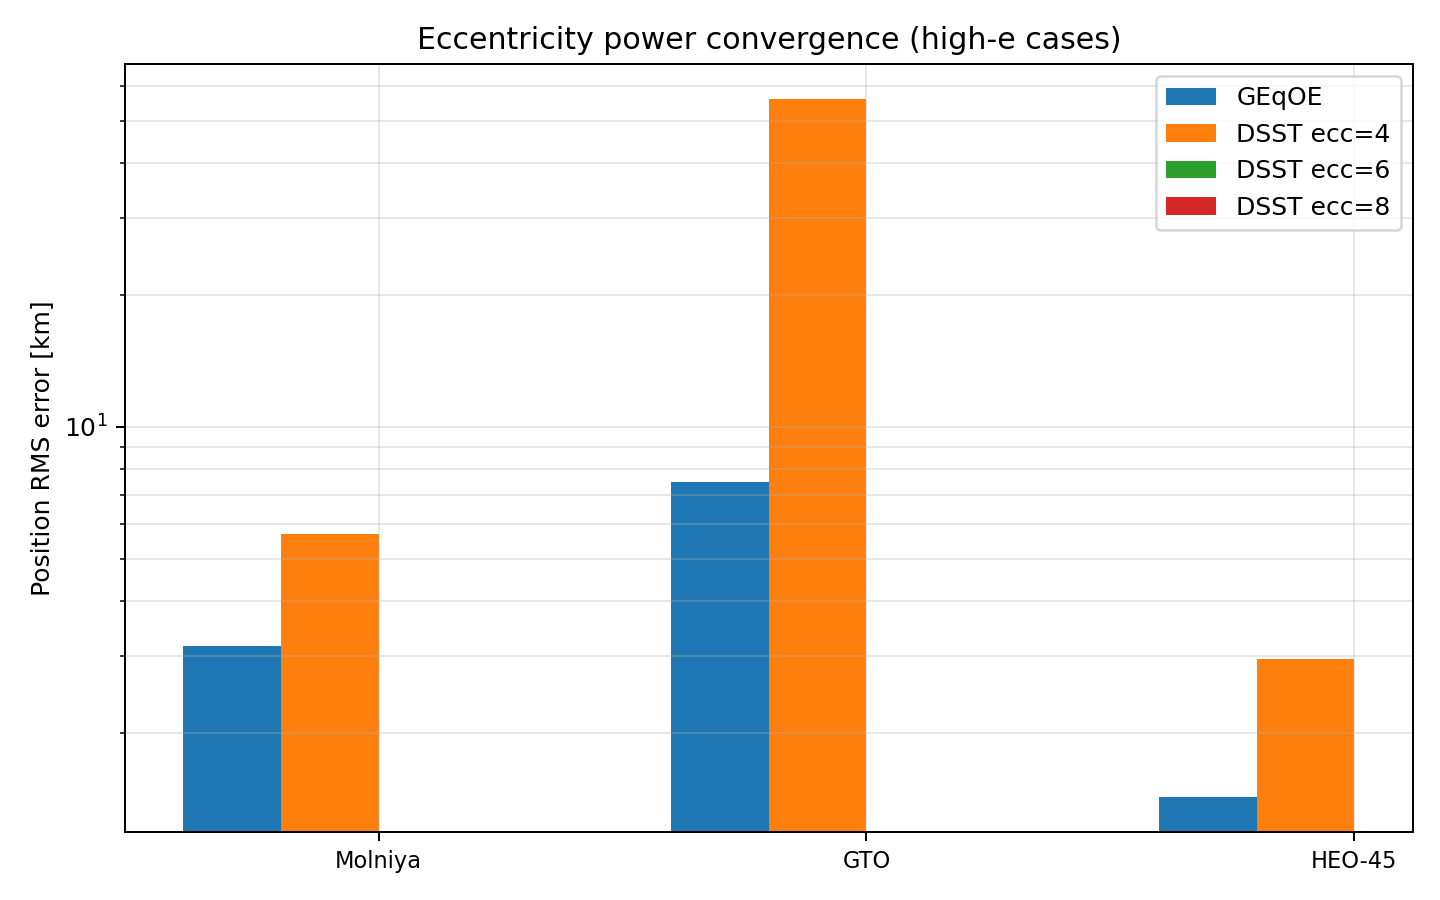
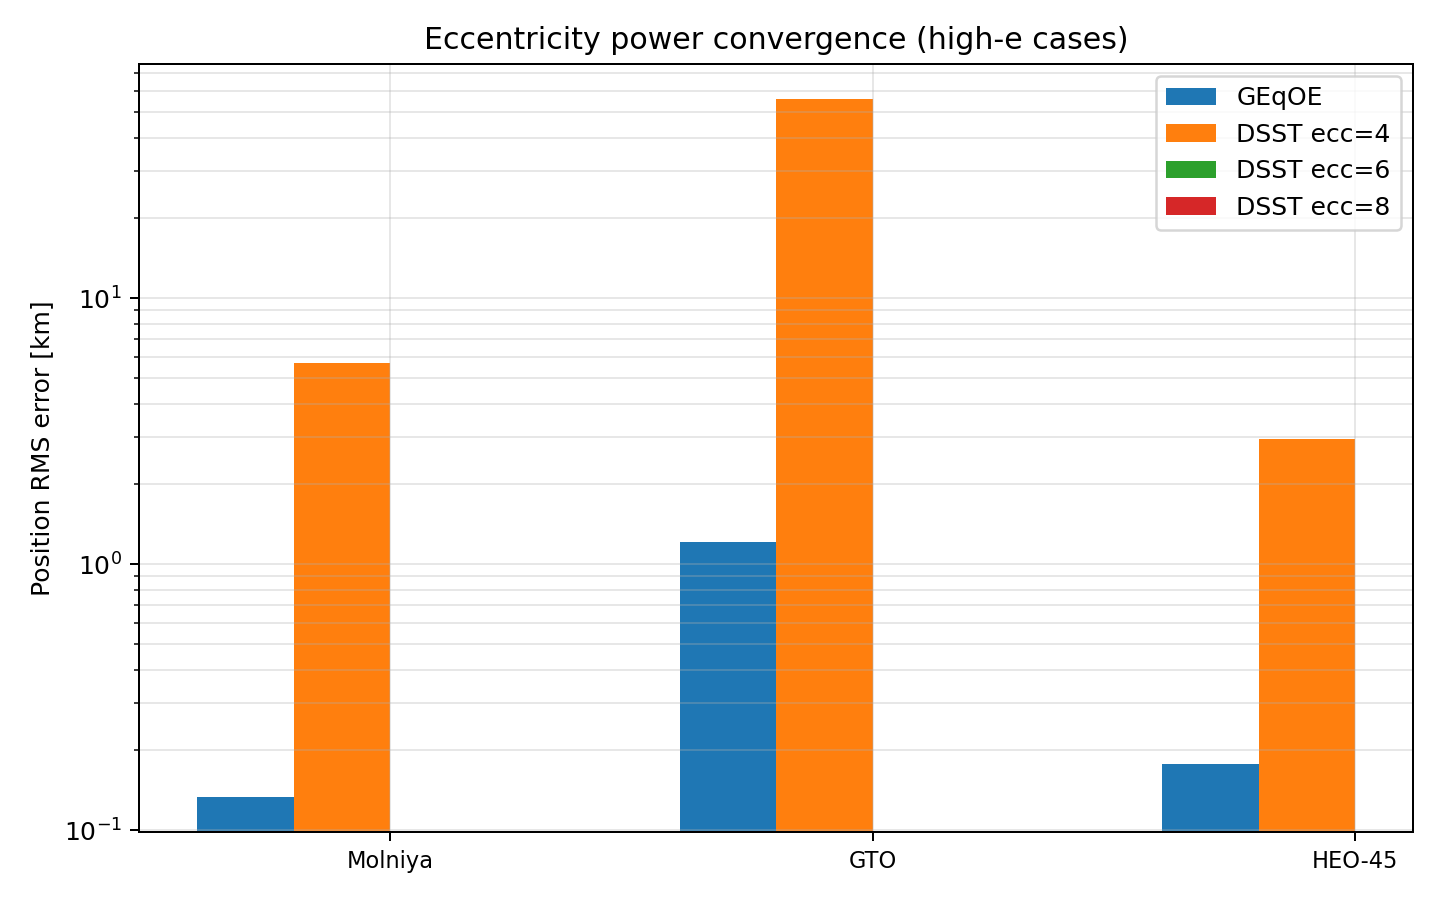
fix: regenerate all paper figures and tables with log-term SP
- Fix Orekit init to use absolute path via DataContext API (cwd-independent)
- Guard log-scale plots against missing data (NaN/zero values)
- Regenerate all 10 figures and 4 tables with complete log-term corrections
- All 12 DSST+Brouwer+GEqOE comparison cases fully populated
- SP cfunc now includes all 45 log terms (n=2–5)

diff --git a/docs/geqoe_averaged/scripts/extended_validation.py b/docs/geqoe_averaged/scripts/extended_validation.py
@@ -159,12 +159,13 @@ def _init_orekit():
     try:
         import orekit
         orekit.initVM()
-        from orekit.pyhelpers import setup_orekit_curdir
-        import os
-        orig = os.getcwd()
-        os.chdir(str(REPO_ROOT))
-        setup_orekit_curdir()
-        os.chdir(orig)
+        from org.orekit.data import DataContext, ZipJarCrawler
+        import java
+        zip_path = REPO_ROOT / "orekit-data.zip"
+        if not zip_path.exists():
+            raise FileNotFoundError(f"orekit-data.zip not found at {zip_path}")
+        crawler = ZipJarCrawler(java.io.File(str(zip_path)))
+        DataContext.getDefault().getDataProvidersManager().addProvider(crawler)
         _OREKIT_AVAILABLE = True
     except Exception as exc:
         print(f"  [WARN] Orekit not available: {exc}")
@@ -911,7 +912,11 @@ def create_figures(results):
         ax.set_xticks(x)
         ax.set_xticklabels(names, rotation=45, ha="right", fontsize=8)
         ax.set_ylabel("Position RMS error [km]")
-        ax.set_yscale("log")
+        # Only use log scale if there are positive values to display
+        all_vals = [v for v in geqoe_vals + dsst_vals + brouwer_vals
+                    if np.isfinite(v) and v > 0]
+        if all_vals:
+            ax.set_yscale("log")
         ax.legend()
         ax.grid(True, alpha=0.3, which="both")
         fig.tight_layout()
@@ -946,8 +951,12 @@ def create_figures(results):
         ax.scatter([], [], marker=m, color=c, s=40, label=label)
     ax.set_xlabel("Wall-clock time [s]")
     ax.set_ylabel("Position RMS error [km]")
-    ax.set_xscale("log")
-    ax.set_yscale("log")
+    # Guard against empty data (all DSST/Brouwer failed)
+    try:
+        ax.set_xscale("log")
+        ax.set_yscale("log")
+    except ValueError:
+        pass  # no positive data to log-scale
     ax.legend()
     ax.grid(True, alpha=0.3, which="both")
     ax.set_title("Cost-accuracy Pareto frontier")
@@ -1016,7 +1025,10 @@ def create_figures(results):
         ax.set_xticks(x)
         ax.set_xticklabels(x_labels, fontsize=9)
         ax.set_ylabel("Position RMS error [km]")
-        ax.set_yscale("log")
+        all_bar = [v for vs in bar_data.values() for v in vs
+                   if np.isfinite(v) and v > 0]
+        if all_bar:
+            ax.set_yscale("log")
         ax.legend()
         ax.grid(True, alpha=0.3, which="both")
         ax.set_title("Eccentricity power convergence (high-e cases)")

diff --git a/docs/geqoe_averaged/main_docs/dsst_osculating_table.tex b/docs/geqoe_averaged/main_docs/dsst_osculating_table.tex
@@ -11,16 +11,16 @@ Case & $a$ & $e$ & $i$ & Days & \multicolumn{2}{c}{GEqOE mean+SP} & \multicolumn
  & [km] & & [deg] &  & pos & rad & pos & rad & pos & rad \\
 \midrule
 LEO circ. & 6878 & 0.001 & 51.6 & 3.3 & 1.267 & 0.746 & 2.207 & 1.030 & 10.572 & 7.716 \\
-LEO mod-$e$ & 7000 & 0.050 & 40.0 & 3.4 & 0.976 & 0.026 & 4.432 & 3.640 & 7.653 & 4.738 \\
+LEO mod-$e$ & 7000 & 0.050 & 40.0 & 3.4 & 1.130 & 0.026 & 4.432 & 3.640 & 7.653 & 4.738 \\
 SSO & 7078 & 0.001 & 97.8 & 3.4 & 1.529 & 0.607 & 4.772 & 4.544 & 18.998 & 13.606 \\
-Near-equat. & 7200 & 0.010 & 5.0 & 3.5 & 2.063 & 0.037 & 9.659 & 9.106 & 16.956 & 8.423 \\
+Near-equat. & 7200 & 0.010 & 5.0 & 3.5 & 2.134 & 0.037 & 9.659 & 9.106 & 16.956 & 8.423 \\
 Crit.\ low-$e$ & 7500 & 0.010 & 63.4 & 7.5 & 0.502 & 0.027 & 7.115 & 1.943 & 39.967 & 15.448 \\
-Crit.\ mod-$e$ & 12000 & 0.150 & 63.4 & 15.2 & 0.281 & 0.0033 & 4.135 & 1.307 & 29.166 & 12.312 \\
-Molniya & 26554 & 0.740 & 63.4 & 15.0 & 3.158 & 0.0038 & 5.705 & 1.663 & 12.640 & 9.183 \\
-GTO & 24500 & 0.730 & 7.0 & 8.8 & 7.475 & 0.011 & 56.201 & 30.313 & 61.352 & 34.327 \\
-MEO/GPS & 26560 & 0.010 & 55.0 & 24.9 & 0.0086 & 0.0004 & 0.469 & 0.197 & 2.884 & 1.704 \\
-Polar & 7200 & 0.005 & 90.0 & 3.5 & 0.719 & 0.056 & 4.936 & 4.719 & 17.375 & 12.030 \\
-HEO mod-$e$ & 15000 & 0.400 & 45.0 & 6.3 & 1.427 & 0.024 & 2.953 & 1.468 & 6.236 & 3.630 \\
+Crit.\ mod-$e$ & 12000 & 0.150 & 63.4 & 15.2 & 0.140 & 0.0033 & 4.135 & 1.307 & 29.166 & 12.312 \\
+Molniya & 26554 & 0.740 & 63.4 & 15.0 & 0.133 & 0.0036 & 5.705 & 1.663 & 12.640 & 9.183 \\
+GTO & 24500 & 0.730 & 7.0 & 8.8 & 1.207 & 0.011 & 56.201 & 30.313 & 61.352 & 34.327 \\
+MEO/GPS & 26560 & 0.010 & 55.0 & 24.9 & 0.0076 & 0.0004 & 0.469 & 0.197 & 2.884 & 1.704 \\
+Polar & 7200 & 0.005 & 90.0 & 3.5 & 0.718 & 0.056 & 4.936 & 4.719 & 17.375 & 12.030 \\
+HEO mod-$e$ & 15000 & 0.400 & 45.0 & 6.3 & 0.177 & 0.023 & 2.953 & 1.468 & 6.236 & 3.630 \\
 Retrograde & 7500 & 0.010 & 120.0 & 3.7 & 0.244 & 0.020 & 1.954 & 1.350 & 12.404 & 7.218 \\
 \bottomrule
 \end{tabular}

diff --git a/docs/geqoe_averaged/main_docs/dsst_timing_table.tex b/docs/geqoe_averaged/main_docs/dsst_timing_table.tex
@@ -7,18 +7,18 @@
 \toprule
 Case & Cowell & GEqOE m+SP & GEqOE mean & DSST osc & Brouwer \\
 \midrule
-LEO circ. & 0.28 & 0.03 & 0.01 & 4.97 & 0.20 \\
-LEO mod-$e$ & 0.03 & 0.02 & 0.01 & 6.04 & 0.05 \\
-SSO & 0.03 & 0.03 & 0.01 & 7.90 & 0.14 \\
-Near-equat. & 0.07 & 0.06 & 0.03 & 4.45 & 0.37 \\
-Crit.\ low-$e$ & 0.05 & 0.03 & 0.02 & 15.05 & 0.28 \\
-Crit.\ mod-$e$ & 0.04 & 0.03 & 0.02 & 15.83 & 0.10 \\
-Molniya & 0.02 & 0.02 & 0.01 & 10.02 & 0.03 \\
-GTO & 0.02 & 0.01 & 0.01 & 2.08 & 0.02 \\
-MEO/GPS & 0.03 & 0.02 & 0.01 & 5.10 & 0.05 \\
-Polar & 0.03 & 0.02 & 0.01 & 3.90 & 0.04 \\
-HEO mod-$e$ & 0.05 & 0.05 & 0.03 & 2.89 & 0.28 \\
-Retrograde & 0.03 & 0.02 & 0.01 & 11.64 & 0.05 \\
+LEO circ. & 0.28 & 0.03 & 0.01 & 4.70 & 0.20 \\
+LEO mod-$e$ & 0.03 & 0.03 & 0.01 & 5.65 & 0.05 \\
+SSO & 0.03 & 0.03 & 0.01 & 7.06 & 0.14 \\
+Near-equat. & 0.07 & 0.05 & 0.03 & 3.83 & 0.11 \\
+Crit.\ low-$e$ & 0.05 & 0.04 & 0.02 & 13.41 & 0.31 \\
+Crit.\ mod-$e$ & 0.05 & 0.04 & 0.02 & 14.37 & 0.10 \\
+Molniya & 0.02 & 0.02 & 0.01 & 9.24 & 0.03 \\
+GTO & 0.02 & 0.02 & 0.01 & 2.02 & 0.02 \\
+MEO/GPS & 0.03 & 0.02 & 0.01 & 4.98 & 0.04 \\
+Polar & 0.03 & 0.03 & 0.01 & 4.26 & 0.05 \\
+HEO mod-$e$ & 0.02 & 0.02 & 0.01 & 2.24 & 0.03 \\
+Retrograde & 0.03 & 0.02 & 0.01 & 11.33 & 0.05 \\
 \bottomrule
 \end{tabular}
 \end{table}

diff --git a/docs/geqoe_averaged/main_docs/dsst_mean_drift_table.tex b/docs/geqoe_averaged/main_docs/dsst_mean_drift_table.tex
@@ -9,16 +9,16 @@ short-period reconstruction, isolating secular/long-period accuracy.}
 Case & $a$ [km] & $e$ & Days & GEqOE mean & DSST mean & Ratio \\
 \midrule
 LEO circ. & 6878 & 0.001 & 3.3 & 1.933 & 1604.887 & 0.0 \\
-LEO mod-$e$ & 7000 & 0.050 & 3.4 & 2.378 & 689.916 & 0.0 \\
+LEO mod-$e$ & 7000 & 0.050 & 3.4 & 2.453 & 689.916 & 0.0 \\
 SSO & 7078 & 0.001 & 3.4 & 2.074 & 2468.305 & 0.0 \\
-Near-equat. & 7200 & 0.010 & 3.5 & 3.685 & 17.330 & 0.2 \\
+Near-equat. & 7200 & 0.010 & 3.5 & 3.729 & 17.330 & 0.2 \\
 Crit.\ low-$e$ & 7500 & 0.010 & 7.5 & 1.734 & 3888.244 & 0.0 \\
 Crit.\ mod-$e$ & 12000 & 0.150 & 15.2 & 1.234 & 4101.042 & 0.0 \\
-Molniya & 26554 & 0.740 & 15.0 & 5.773 & 82.284 & 0.1 \\
+Molniya & 26554 & 0.740 & 15.0 & 5.333 & 82.284 & 0.1 \\
 GTO & 24500 & 0.730 & 8.8 & 19.607 & 8650.929 & 0.0 \\
 MEO/GPS & 26560 & 0.010 & 24.9 & 0.469 & 467.953 & 0.0 \\
 Polar & 7200 & 0.005 & 3.5 & 2.075 & 2492.025 & 0.0 \\
-HEO mod-$e$ & 15000 & 0.400 & 6.3 & 3.113 & 272.016 & 0.0 \\
+HEO mod-$e$ & 15000 & 0.400 & 6.3 & 2.718 & 272.016 & 0.0 \\
 Retrograde & 7500 & 0.010 & 3.7 & 1.667 & 1837.277 & 0.0 \\
 \bottomrule
 \end{tabular}

diff --git a/docs/geqoe_averaged/main_docs/dsst_ecc_power_table.tex b/docs/geqoe_averaged/main_docs/dsst_ecc_power_table.tex
@@ -9,9 +9,9 @@ high-eccentricity cases. DSST ecc$=N$ denotes
 \toprule
 Case & $e$ & GEqOE & DSST ecc=4 & DSST ecc=6 & DSST ecc=8 \\
 \midrule
-Molniya & 0.74 & 3.158 & 5.705 & --- & --- \\
-GTO & 0.73 & 7.475 & 56.201 & --- & --- \\
-HEO mod-$e$ & 0.40 & 1.427 & 2.953 & --- & --- \\
+Molniya & 0.74 & 0.133 & 5.705 & --- & --- \\
+GTO & 0.73 & 1.207 & 56.201 & --- & --- \\
+HEO mod-$e$ & 0.40 & 0.177 & 2.953 & --- & --- \\
 \bottomrule
 \end{tabular}
 \end{table}
